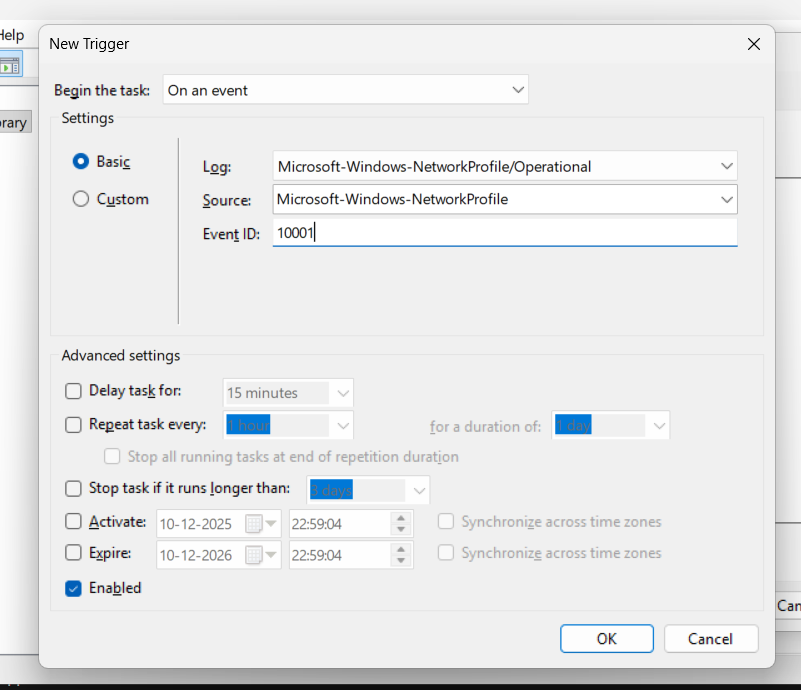
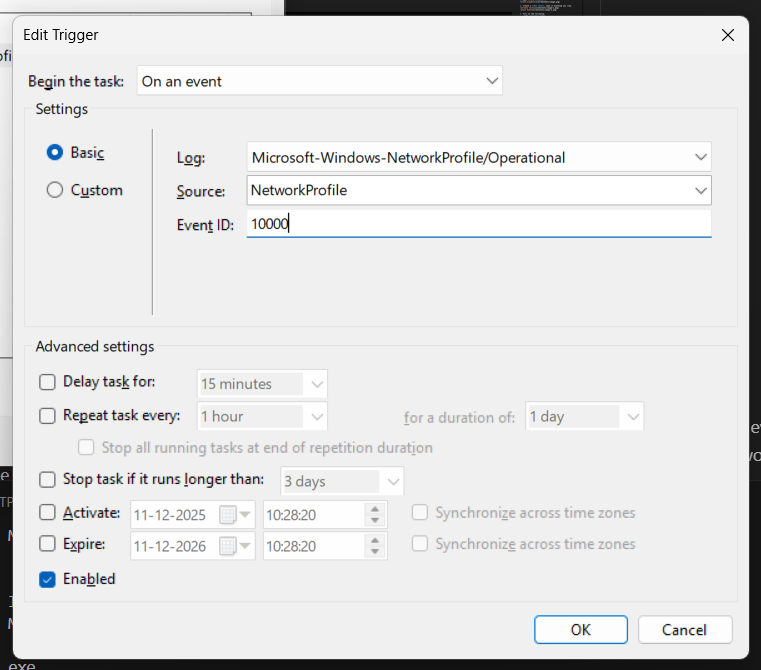
Adjust formatting rules and fix documentation

diff --git a/src/wifiLogin.cpp b/src/wifiLogin.cpp
@@ -2,18 +2,16 @@
 
 constexpr const std::string TARGET_SSID = "IIITU_Wireless";
 
-int WINAPI WinMain(HINSTANCE, HINSTANCE, LPSTR, int)
-{
+int WINAPI WinMain(HINSTANCE, HINSTANCE, LPSTR, int) {
     logFile = fopen("log.txt", "a+");
 
     // Parse the command line arguments, in the form of tool.exe USERNAME PASSWORD
     // logout if run as tool.exe logout logout
     int argc = 0;
-    LPWSTR *wargv = CommandLineToArgvW(GetCommandLineW(), &argc);
+    LPWSTR* wargv = CommandLineToArgvW(GetCommandLineW(), &argc);
 
-    if (argc < 3)
-    {
-        std::cout << "Launch the tool with 2 arguments. Example: tool.exe USERNAME PASSWORD\n";
+    if (argc < 3) {
+        std::cerr << "Launch the tool with 2 arguments. Example: tool.exe USERNAME PASSWORD\n";
         logToFile(
             "Tool launched without enough arguments.",
             LogMsgLevel::LOG_ERROR);
@@ -27,8 +25,7 @@ int WINAPI WinMain(HINSTANCE, HINSTANCE, LPSTR, int)
 
     httplib::Client cli("192.168.100.1", 8090);
 
-    if (USERNAME == "logout" && PASSWORD == "logout")
-    {
+    if (USERNAME == "logout" && PASSWORD == "logout") {
         logout(cli);
         return 0;
     }
@@ -45,8 +42,7 @@ int WINAPI WinMain(HINSTANCE, HINSTANCE, LPSTR, int)
         "Tool was executed! Let's see if we can do the fun stuff",
         LogMsgLevel::LOG_INFO);
 
-    for (int i = 0; i < ifList->dwNumberOfItems; i++)
-    {
+    for (int i = 0; i < ifList->dwNumberOfItems; i++) {
         GUID id = ifList->InterfaceInfo[i].InterfaceGuid;
 
         PWLAN_CONNECTION_ATTRIBUTES attr;
@@ -57,24 +53,21 @@ int WINAPI WinMain(HINSTANCE, HINSTANCE, LPSTR, int)
             wlan_intf_opcode_current_connection,
             NULL,
             &outSize,
-            (PVOID *)&attr,
+            (PVOID*)&attr,
             NULL);
 
         DOT11_SSID ssid = attr->wlanAssociationAttributes.dot11Ssid;
         std::string networkSSID(
-            reinterpret_cast<const char *>(ssid.ucSSID),
+            reinterpret_cast<const char*>(ssid.ucSSID),
             ssid.uSSIDLength);
 
         // If we are connected to the target network, do the fun stuff
-        if (networkSSID == TARGET_SSID)
-        {
+        if (networkSSID == TARGET_SSID) {
             logToFile(
                 std::format("We are connected to {}. Let the fun stuff begin", TARGET_SSID).c_str(),
                 LogMsgLevel::LOG_INFO);
             funStuff(cli);
-        }
-        else
-        {
+        } else {
             logToFile(
                 std::format("We are NOT connected to {}. No fun stuff here, exitting.", TARGET_SSID).c_str(),
                 LogMsgLevel::LOG_INFO);
@@ -86,26 +79,21 @@ int WINAPI WinMain(HINSTANCE, HINSTANCE, LPSTR, int)
     return 0;
 }
 
-void funStuff(httplib::Client &httpClient)
-{
+void funStuff(httplib::Client& httpClient) {
 
-    if (auto res = httpClient.Get("/httpclient.html"))
-    {
+    if (auto res = httpClient.Get("/httpclient.html")) {
         logToFile(
             std::format("Login page httpclient.html online. Status: {}", res->status).c_str(),
             LogMsgLevel::LOG_INFO);
 
         // Send credentials and log in, then start the heartbeat loop
-        if (login(httpClient))
-        {
+        if (login(httpClient)) {
             logToFile(
                 "Starting heartbeat loop.",
                 LogMsgLevel::LOG_INFO);
             startHeartbeat(httpClient);
         }
-    }
-    else
-    {
+    } else {
         auto err = res.error();
         logToFile(
             std::format("HTTP Error while fetching /httpclient.html: {}", httplib::to_string(err)).c_str(),
@@ -114,8 +102,7 @@ void funStuff(httplib::Client &httpClient)
     }
 }
 
-bool login(httplib::Client &httpClient)
-{
+bool login(httplib::Client& httpClient) {
     auto now = std::chrono::system_clock::now();
 
     auto payload = std::format(
@@ -146,15 +133,12 @@ bool login(httplib::Client &httpClient)
         LogMsgLevel::LOG_INFO);
 
     // Check if login succeeded
-    if (res->body.find("Login failed") == std::string::npos)
-    {
+    if (res->body.find("Login failed") == std::string::npos) {
         logToFile(
             "Login succeeded.",
             LogMsgLevel::LOG_INFO);
         return true;
-    }
-    else
-    {
+    } else {
         logToFile(
             "Login failed.",
             LogMsgLevel::LOG_INFO);
@@ -162,8 +146,7 @@ bool login(httplib::Client &httpClient)
     }
 }
 
-void logout(httplib::Client &httpClient)
-{
+void logout(httplib::Client& httpClient) {
     auto now = std::chrono::system_clock::now();
     std::time_t epoch_time = std::chrono::system_clock::to_time_t(now);
 
@@ -189,10 +172,8 @@ void logout(httplib::Client &httpClient)
         LogMsgLevel::LOG_INFO);
 }
 
-void startHeartbeat(httplib::Client &httpClient)
-{
-    while (PROGRAM_RUNNING)
-    {
+void startHeartbeat(httplib::Client& httpClient) {
+    while (PROGRAM_RUNNING) {
         auto now = std::chrono::system_clock::now();
         auto payload = std::format(
             "mode=192&username={}&a={}&producttype=0",
@@ -204,14 +185,12 @@ void startHeartbeat(httplib::Client &httpClient)
     }
 }
 
-void logToFile(const char *message, LogMsgLevel lvl)
-{
+void logToFile(const char* message, LogMsgLevel lvl) {
     using namespace std::chrono;
 
     char logLvl[8];
 
-    switch (lvl)
-    {
+    switch (lvl) {
     case LOG_ERROR:
         strcpy(logLvl, "ERROR");
         break;
@@ -227,7 +206,7 @@ void logToFile(const char *message, LogMsgLevel lvl)
     auto local = floor<seconds>(now);
 
     auto tz = current_zone();
-    zoned_time zt{tz, local};
+    zoned_time zt { tz, local };
 
     auto currTimeStr = std::format("{:%d/%m/%y-%H:%M:%S}", zt);
 

diff --git a/include/wifiLogin.h b/include/wifiLogin.h
@@ -1,12 +1,12 @@
 #include "httplib.h"
 #include <Windows.h>
-#include <wlanapi.h>
-#include <shellapi.h>
+#include <chrono>
 #include <cstdio>
 #include <cstring>
 #include <format>
-#include <chrono>
 #include <iostream>
+#include <shellapi.h>
+#include <wlanapi.h>
 #pragma comment(lib, "wlanapi.lib")
 #pragma comment(lib, "Shell32.lib")
 

diff --git a/README.md b/README.md
@@ -44,7 +44,7 @@ These are passed as command-line arguments when the task runs.
     2. Input the following details:
         - Log: `Microsoft-Windows-NetworkProfile/Operational`
         - Source: `Microsoft-Windows-NetworkProfile`
-        - Event ID: `10001`
+        - Event ID: `10000`
         ![Event setup](screenshots/image-5.png)
 
     This event makes it so that the tool runs and logs you in whenever a network is connected, so that you dont have to manually login.
